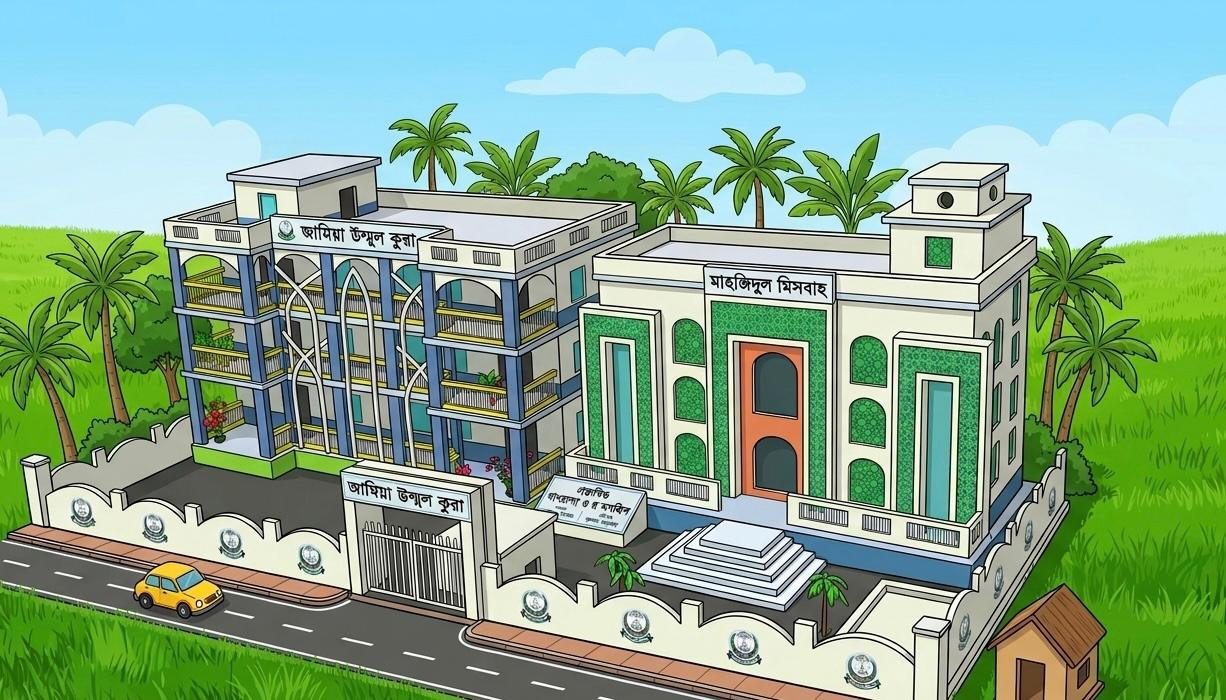
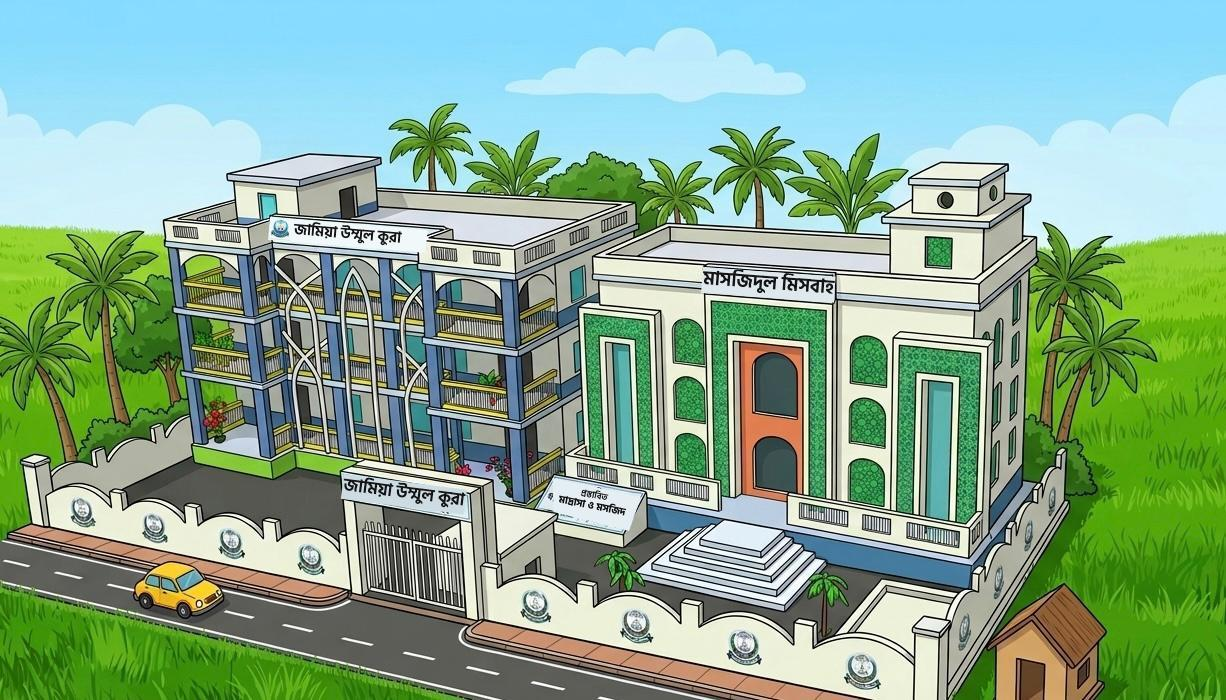
Label the campus artwork as the proposed madrasah and mosque
The illustration shows both buildings, and both are proposed rather than
built, so the hero badge now reads "প্রস্তাবিত মাদরাসা ও মসজিদ" and every
caption of that same artwork says so.

Also stopped asserting that Masjidul Misbah stands at the temporary campus —
that was an inference from the artwork. The temporary site is now described
as having classrooms, the residential hall and a prayer space, with the named
mosque attached to the proposed permanent campus.

diff --git a/lib/content.ts b/lib/content.ts
@@ -370,7 +370,7 @@ export const notices: Notice[] = [];
 
 export const gallery: { src: string; caption: T }[] = [
   { src: "/campus-signboard.png", caption: { bn: "জামিয়ার সম্মুখভাগ ও নামফলক", en: "The Jamia frontage and its signboard" } },
-  { src: "/cover.jpeg", caption: { bn: "জামিয়ার সম্মুখ চিত্র ও মসজিদুল মিসবাহ", en: "The Jamia frontage and Masjidul Misbah" } },
+  { src: "/cover.jpeg", caption: { bn: "প্রস্তাবিত মাদরাসা ও মসজিদের নকশা", en: "Design of the proposed madrasah and mosque" } },
   { src: "/land/land-1.jpeg", caption: { bn: "জামিয়ার ১০২ শতক স্থায়ী জায়গা", en: "The Jamia's 102 decimals of permanent land" } },
   { src: "/land/land-2.jpeg", caption: { bn: "স্থায়ী জায়গা পরিদর্শনে উস্তাদমণ্ডলী", en: "Teachers visiting the permanent site" } },
   { src: "/banners/new-addition.jpeg", caption: { bn: "রমজান উপলক্ষে বিশেষ দুটি কোর্স", en: "Two special Ramadan courses" } },
@@ -391,8 +391,8 @@ export const about = {
     en: "Jamia Ummul Qura Al Islamia is an independent institution of Islamic learning founded in 2022 at Phulbaria, Brahmanbaria Sadar. Named in relation to Umm al-Qura, the blessed name of Makkah, the Jamia exists to raise a generation grounded in the sound knowledge of Qur'an and Sunnah, shaped by the way of the pious predecessors, and equipped for its own age.",
   } satisfies T,
   history: {
-    bn: "প্রতিষ্ঠার সূচনালগ্ন থেকেই জামিয়া ছাত্রদের জন্য একটি নিরাপদ, সুশৃঙ্খল ও ইলমী পরিবেশ নিশ্চিত করে আসছে। নিজস্ব প্রাঙ্গণে রয়েছে শ্রেণিকক্ষ, দারুল ইক্বামা এবং 'মাসজিদুল মিসবাহ'। অল্প সময়ের ব্যবধানে মক্তব থেকে শুরু করে হিফজ ও কিতাব বিভাগ পর্যন্ত ধারাবাহিক শিক্ষাক্রম চালু হয়েছে এবং জেলাব্যাপী হিফজুল কুরআন প্রতিযোগিতা, আন্তর্জাতিক আরবি ভাষা দিবসসহ নানা আয়োজনে জামিয়া ব্রাহ্মণবাড়িয়ার দ্বীনি অঙ্গনে স্বতন্ত্র পরিচিতি লাভ করেছে।",
-    en: "From its earliest days the Jamia has kept a safe, orderly and scholarly environment for its students. Its own grounds hold the classrooms, the residential hall and Masjidul Misbah. In a short span it has opened a continuous course of study from Maktab through Hifz to the Kitab department, and through district-wide Hifz competitions and observances such as World Arabic Language Day it has earned a distinct place in the religious life of Brahmanbaria.",
+    bn: "প্রতিষ্ঠার সূচনালগ্ন থেকেই জামিয়া ছাত্রদের জন্য একটি নিরাপদ, সুশৃঙ্খল ও ইলমী পরিবেশ নিশ্চিত করে আসছে। নিজস্ব প্রাঙ্গণে রয়েছে শ্রেণিকক্ষ, দারুল ইক্বামা ও নামাযের ব্যবস্থা; প্রস্তাবিত স্থায়ী ক্যাম্পাসে থাকবে 'মাসজিদুল মিসবাহ'। অল্প সময়ের ব্যবধানে মক্তব থেকে শুরু করে হিফজ ও কিতাব বিভাগ পর্যন্ত ধারাবাহিক শিক্ষাক্রম চালু হয়েছে এবং জেলাব্যাপী হিফজুল কুরআন প্রতিযোগিতা, আন্তর্জাতিক আরবি ভাষা দিবসসহ নানা আয়োজনে জামিয়া ব্রাহ্মণবাড়িয়ার দ্বীনি অঙ্গনে স্বতন্ত্র পরিচিতি লাভ করেছে।",
+    en: "From its earliest days the Jamia has kept a safe, orderly and scholarly environment for its students. Its own grounds hold the classrooms, the residential hall and a prayer space; the proposed permanent campus will carry Masjidul Misbah. In a short span it has opened a continuous course of study from Maktab through Hifz to the Kitab department, and through district-wide Hifz competitions and observances such as World Arabic Language Day it has earned a distinct place in the religious life of Brahmanbaria.",
   } satisfies T,
   mission: {
     bn: "কুরআন-সুন্নাহভিত্তিক নির্ভুল ইলম বিতরণ, আখলাক ও আদবের পরিচর্যা এবং সমাজের প্রতি দায়বদ্ধ যোগ্য আলেম তৈরি করা।",
@@ -472,7 +472,7 @@ export const facilities: { icon: string; title: T; body: T }[] = [
   {
     icon: "mosque",
     title: { bn: "মাসজিদুল মিসবাহ", en: "Masjidul Misbah" },
-    body: { bn: "জামিয়ার নিজস্ব প্রশস্ত মসজিদ, যেখানে পাঁচ ওয়াক্ত জামাত ও তারবিয়াতী মজলিস অনুষ্ঠিত হয়।", en: "The Jamia's own spacious mosque, host to the five daily congregations and to spiritual gatherings." },
+    body: { bn: "পাঁচ ওয়াক্ত জামাত ও তারবিয়াতী মজলিসের ব্যবস্থা; প্রস্তাবিত স্থায়ী ক্যাম্পাসে থাকবে প্রশস্ত 'মাসজিদুল মিসবাহ'।", en: "The five daily congregations and spiritual gatherings are held here; the proposed permanent campus will carry a spacious Masjidul Misbah." },
   },
   {
     icon: "home",

diff --git a/components/views/HomeView.tsx b/components/views/HomeView.tsx
@@ -80,8 +80,8 @@ export function HomeView() {
               <Image
                 src="/banners/campus.jpeg"
                 alt={t({
-                  bn: "জামিয়া উম্মুল কুরা আল-ইসলামিয়ার প্রাঙ্গণ ও মাসজিদুল মিসবাহ",
-                  en: "The grounds of Jamia Ummul Qura Al Islamia and Masjidul Misbah",
+                  bn: "জামিয়া উম্মুল কুরা আল-ইসলামিয়ার প্রস্তাবিত মাদরাসা ও মসজিদের নকশা",
+                  en: "The proposed madrasah and mosque of Jamia Ummul Qura Al Islamia",
                 })}
                 fill
                 priority
@@ -91,7 +91,7 @@ export function HomeView() {
             </div>
             <div className="absolute -bottom-5 start-1/2 -translate-x-1/2 rounded-full border border-gold-500/40 bg-navy-950/90 px-6 py-2.5 text-center backdrop-blur rtl:translate-x-1/2">
               <p className="whitespace-nowrap text-sm font-semibold text-gold-300">
-                {lang === "bn" ? "মাসজিদুল মিসবাহ" : "Masjidul Misbah"}
+                {lang === "bn" ? "প্রস্তাবিত মাদরাসা ও মসজিদ" : "Proposed Madrasah & Mosque"}
               </p>
             </div>
           </div>
@@ -126,8 +126,8 @@ export function HomeView() {
               />
               <p className="text-base leading-relaxed text-navy-800/75">
                 {lang === "bn"
-                  ? "ফুলবাড়িয়া বাস স্ট্যান্ড সংলগ্ন এই ভবনেই বর্তমানে জামিয়ার সকল শিক্ষা কার্যক্রম পরিচালিত হচ্ছে। এখানে রয়েছে শ্রেণিকক্ষ, দারুল ইক্বামা ও মাসজিদুল মিসবাহ। নিজস্ব ১০২ শতক জমিতে স্থায়ী ক্যাম্পাসের নির্মাণকাজ সম্পন্ন হলে জামিয়া সেখানে স্থানান্তরিত হবে ইনশাআল্লাহ।"
-                  : "All of the Jamia's teaching is presently carried on in this building beside Phulbaria Bus Stand, which houses the classrooms, the residential hall and Masjidul Misbah. Once the permanent campus is built on our own 102 decimals of land, the Jamia will move there, inshaAllah."}
+                  ? "ফুলবাড়িয়া বাস স্ট্যান্ড সংলগ্ন এই ভবনেই বর্তমানে জামিয়ার সকল শিক্ষা কার্যক্রম পরিচালিত হচ্ছে। এখানে রয়েছে শ্রেণিকক্ষ, দারুল ইক্বামা ও নামাযের ব্যবস্থা। নিজস্ব ১০২ শতক জমিতে স্থায়ী ক্যাম্পাসের নির্মাণকাজ সম্পন্ন হলে জামিয়া সেখানে স্থানান্তরিত হবে ইনশাআল্লাহ।"
+                  : "All of the Jamia's teaching is presently carried on in this building beside Phulbaria Bus Stand, which houses the classrooms, the residential hall and the prayer space. Once the permanent campus is built on our own 102 decimals of land, the Jamia will move there, inshaAllah."}
               </p>
               <Link
                 href="/about#land"
@@ -170,7 +170,7 @@ export function HomeView() {
             <div className="mask-arch relative aspect-4/3 overflow-hidden border-4 border-white bg-navy-800 shadow-lift">
               <Image
                 src="/banners/campus.jpeg"
-                alt={t({ bn: "জামিয়ার প্রাঙ্গণ", en: "The Jamia grounds" })}
+                alt={t({ bn: "প্রস্তাবিত মাদরাসা ও মসজিদের নকশা", en: "The proposed madrasah and mosque" })}
                 fill
                 sizes="(min-width: 1024px) 520px, 90vw"
                 className="object-cover"

diff --git a/components/views/FacilitiesView.tsx b/components/views/FacilitiesView.tsx
@@ -40,7 +40,7 @@ export function FacilitiesView() {
           <div className="mask-arch relative aspect-4/3 overflow-hidden border-4 border-white bg-navy-800 shadow-lift">
             <Image
               src="/cover.jpeg"
-              alt={t({ bn: "জামিয়ার প্রাঙ্গণ ও মসজিদ", en: "The Jamia grounds and mosque" })}
+              alt={t({ bn: "প্রস্তাবিত মাদরাসা ও মসজিদের নকশা", en: "The proposed madrasah and mosque" })}
               fill
               sizes="(min-width: 1024px) 520px, 90vw"
               className="object-cover"

diff --git a/components/views/AboutView.tsx b/components/views/AboutView.tsx
@@ -61,7 +61,7 @@ export function AboutView() {
             <div className="mask-arch relative aspect-4/5 overflow-hidden border-4 border-white bg-navy-800 shadow-lift">
               <Image
                 src="/cover.jpeg"
-                alt={t({ bn: "জামিয়ার প্রাঙ্গণ", en: "The Jamia grounds" })}
+                alt={t({ bn: "প্রস্তাবিত মাদরাসা ও মসজিদের নকশা", en: "The proposed madrasah and mosque" })}
                 fill
                 sizes="(min-width: 1024px) 520px, 90vw"
                 className="object-cover"
